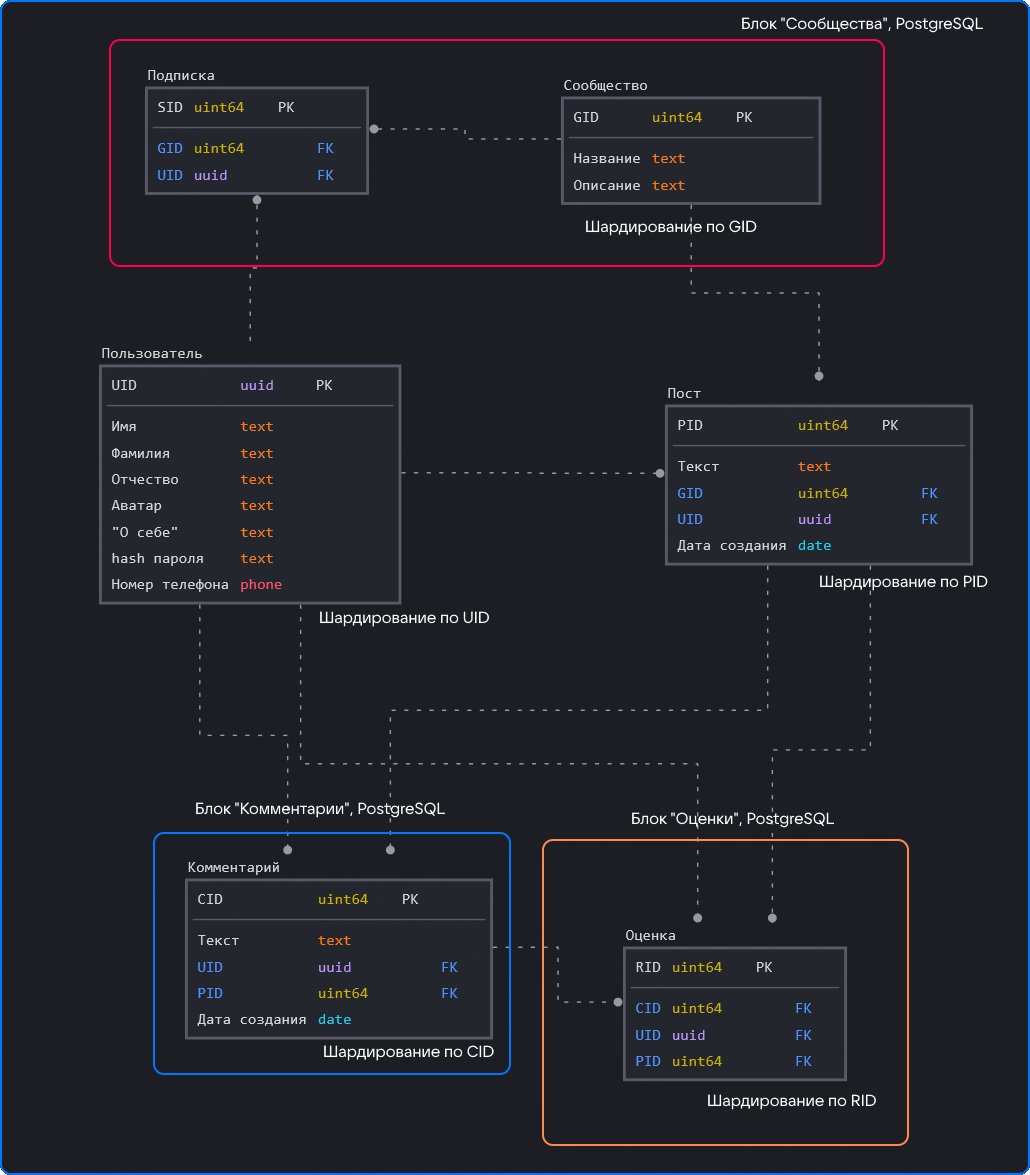
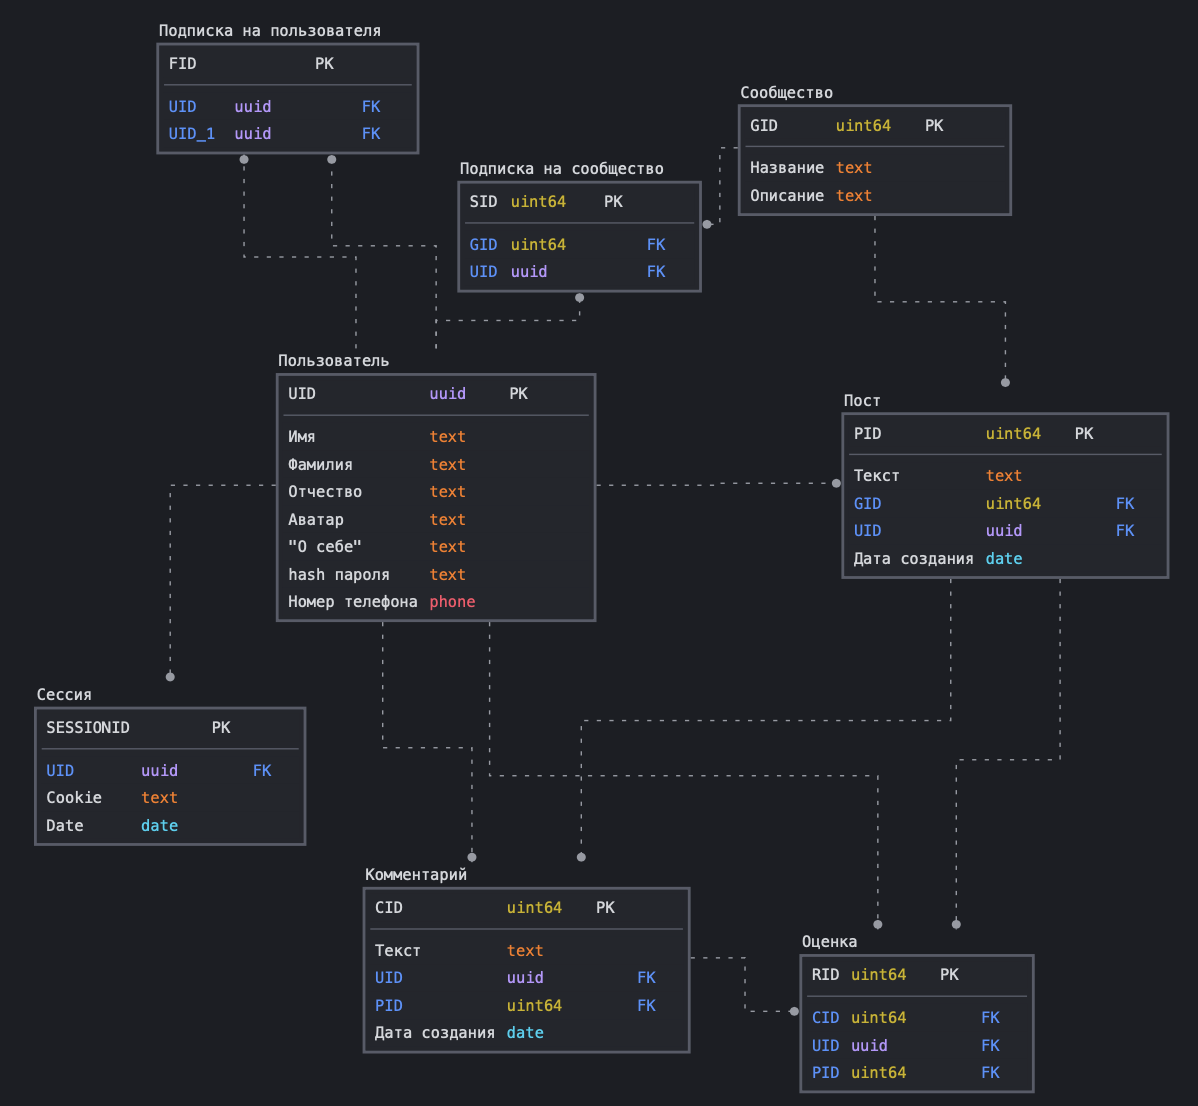
Исправить схемы

diff --git a/README.md b/README.md
@@ -177,12 +177,11 @@
 
 Для хранения большинства данных проекта будет использована реляционная СУБД PostgreSQL. 
 
-Для удобства высоконагруженных записи и чтения весь проект разбит на 4 блока:
+Для удобства высоконагруженных записи и чтения весь проект разбит на 3 блока:
 
-* Блок "Сообщества" используется для удобства получения и записи информации о сообществах и подписках;
-* Блок "Комментарии" используется для удобства получения и записи информации о комментариях;
-* Блок "Оценки" используется для удобства получения и записи информации об оценках;
-* Блок "Прочее" содержит в себе пользователей и посты. Счел нецелесообразным разбиение на два блока из-за равномерной нагрузки запросов на аккаунты и на посты. 
+* Блок "Прочее" используется для работы приложения;
+* Блок "Комментарии" используется для удобства получения и записи информации о комментариях (таблица Комментарий);
+* Блок "Сессии" - раздельная таблица в Tarantool (таблица Сессия);
 
 <img src="./images/physical.png">
 
@@ -190,7 +189,6 @@
 
 Дополнительные (кроме автоматических на **primary key**) индексы:
 
-* Индекс на PID в комментарии (для поиска всех комментариев в посте);
 * Индекс на телефон в пользователе (для поиска всех пользователей по номеру телефона);
 * Индекс на GID в сообществе (для поиска всех постов группы);
 * Индекс на UID в оценке (для поиска всех оценок пользователя).
@@ -200,8 +198,11 @@
 * Один пользователь займет примерно 716 байт;
 * Один средний по длине комментарий займет примерно 163 байт;
 * Одна оценка займет примерно 64 байт;
+* Одна подписка займет примерно 48 байт x2 = 96 байт;
 * Один пост займет примерно 163 байт;
 * Одно сообщество займет примерно 200 байт.
+
+Шардировать будем комментарии по UID.
 
 <hr/>
 
@@ -245,6 +246,7 @@
 Объем требуемой памяти:
 
 * Пользователи: 716 байт **⋅** 269'500'000 = 193 Гб.
+* Подписки (допустим, что их более 300 млн): 96 байт **⋅** 300'000'000 = 28,8 Гб
 * Посты: 163 байт **⋅** 4'540'000 = 740 Мб / сутки => 270,1 Гб / год;
 * Комментарии: 163 байт **⋅** 9'080'000 = 1,48 Гб / сутки => 580 Гб / год;
 * Оценки: 64 байт **⋅** 1'000'000'000 = 64 Гб / сутки => 25,08 Тб / год;
